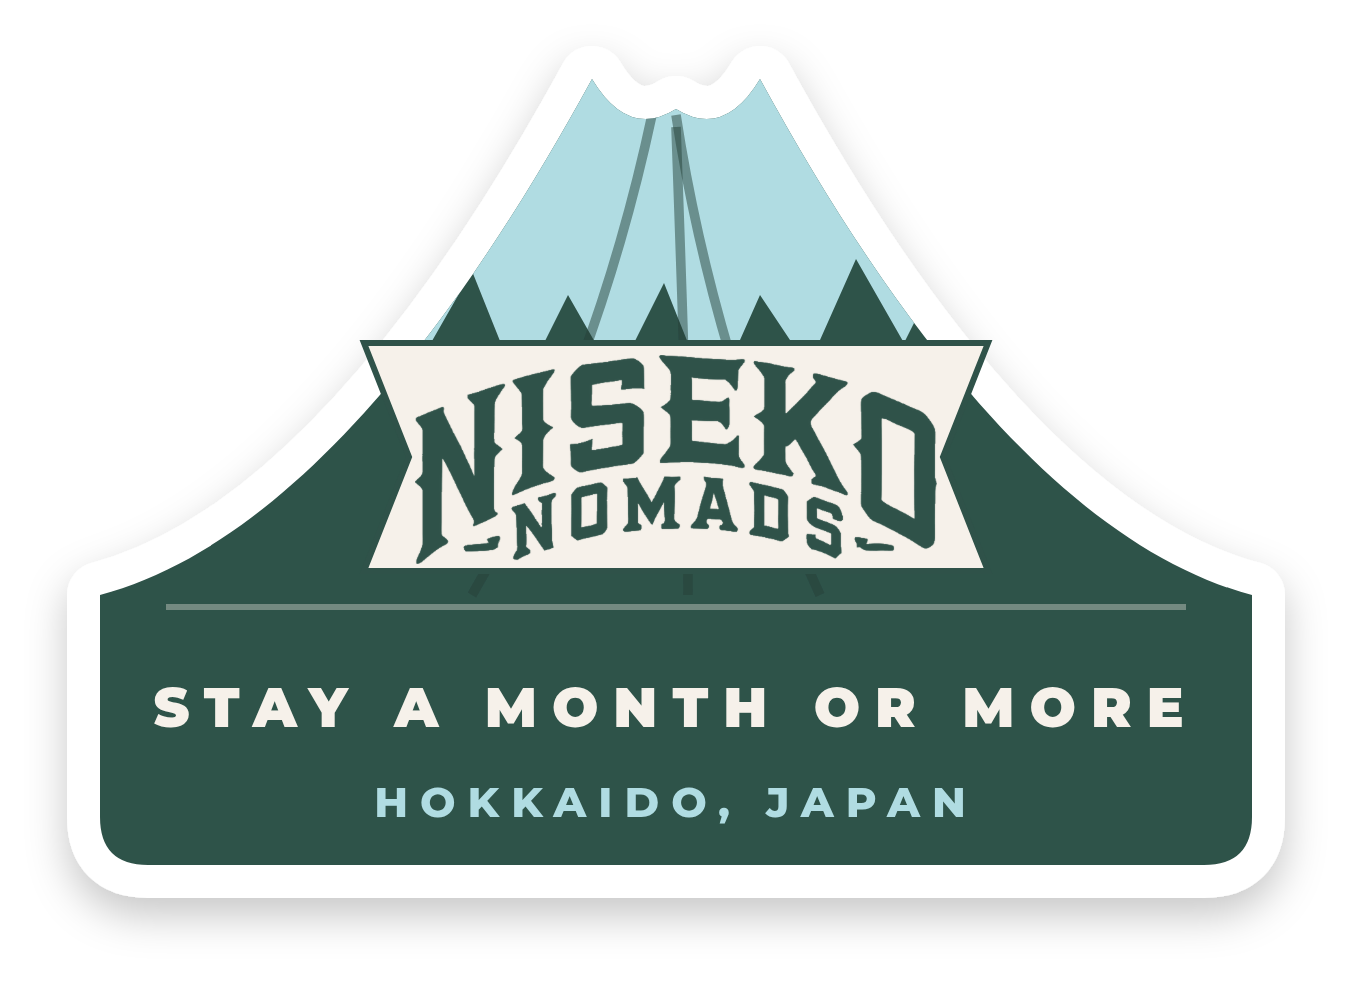
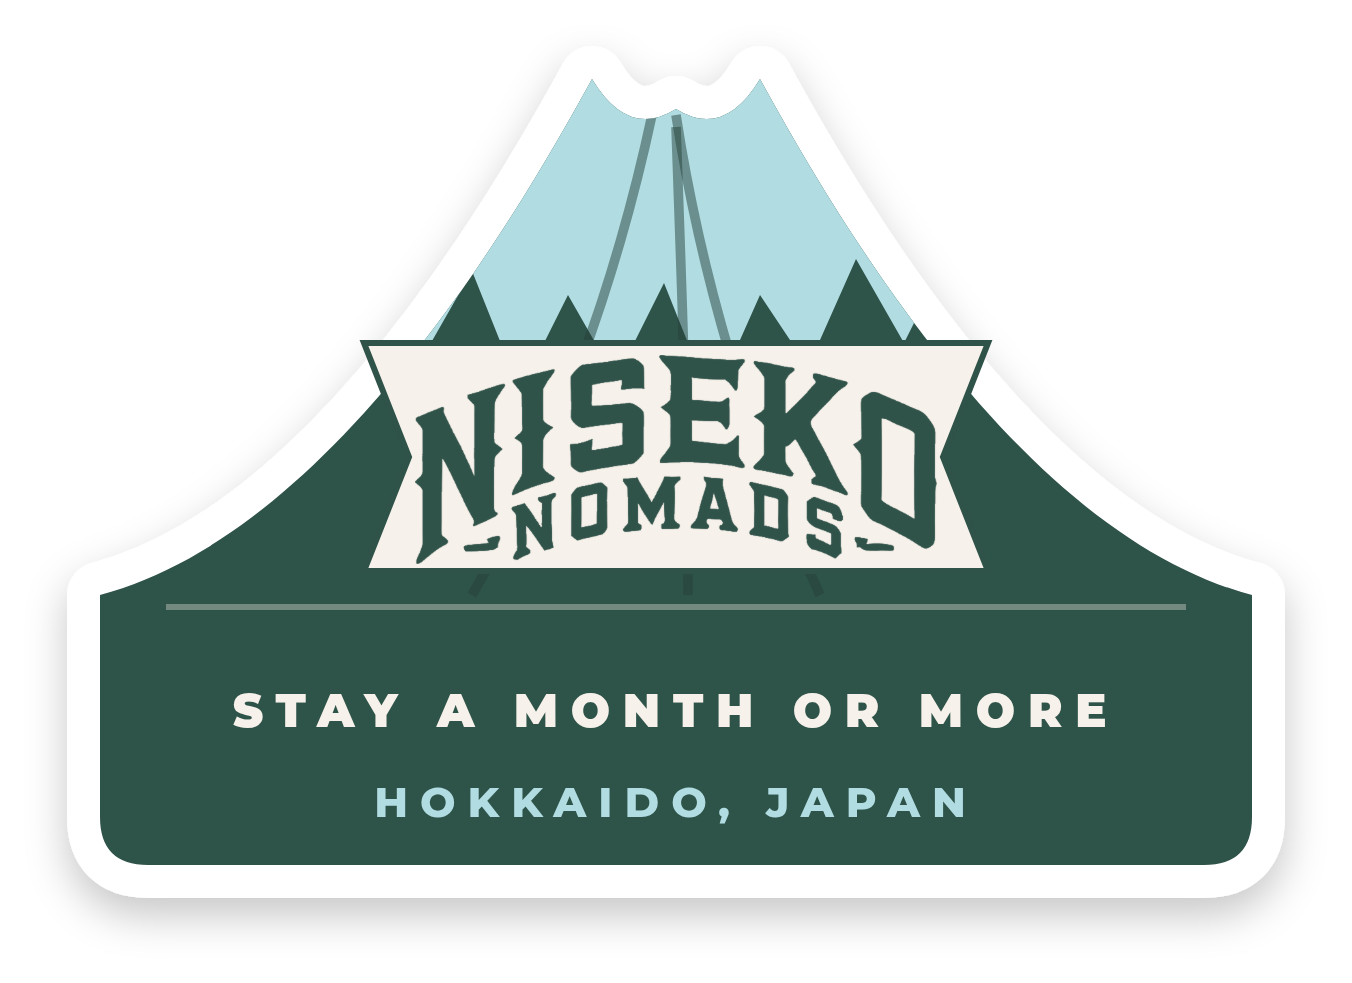
Widen side margins on cone die-cut lines; add month long variant

Changed region(s): [[0.0932, 0.7019, 0.8698, 0.763]]

diff --git a/index.html b/index.html
@@ -122,6 +122,7 @@ const STICKERS = [
   ['11-circle-crest-katakana-arc','Circle crest · katakana arc','ニセコノマド curved above the wordmark'],
   ['12-cone-die-cut-monthly','Cone die-cut · monthly accommodation','Katakana version with the other line'],
   ['13-badge-charcoal','Badge · charcoal','マンスリーステイ up top, HOKKAIDO · JAPAN below'],
+  ['14-cone-die-cut-month-long','Cone die-cut · month long','Katakana version, MONTH LONG ACCOMMODATION'],
 ];
 const SHEETS = [
   ['stickers6','All nine together','The full set on one sheet'],
